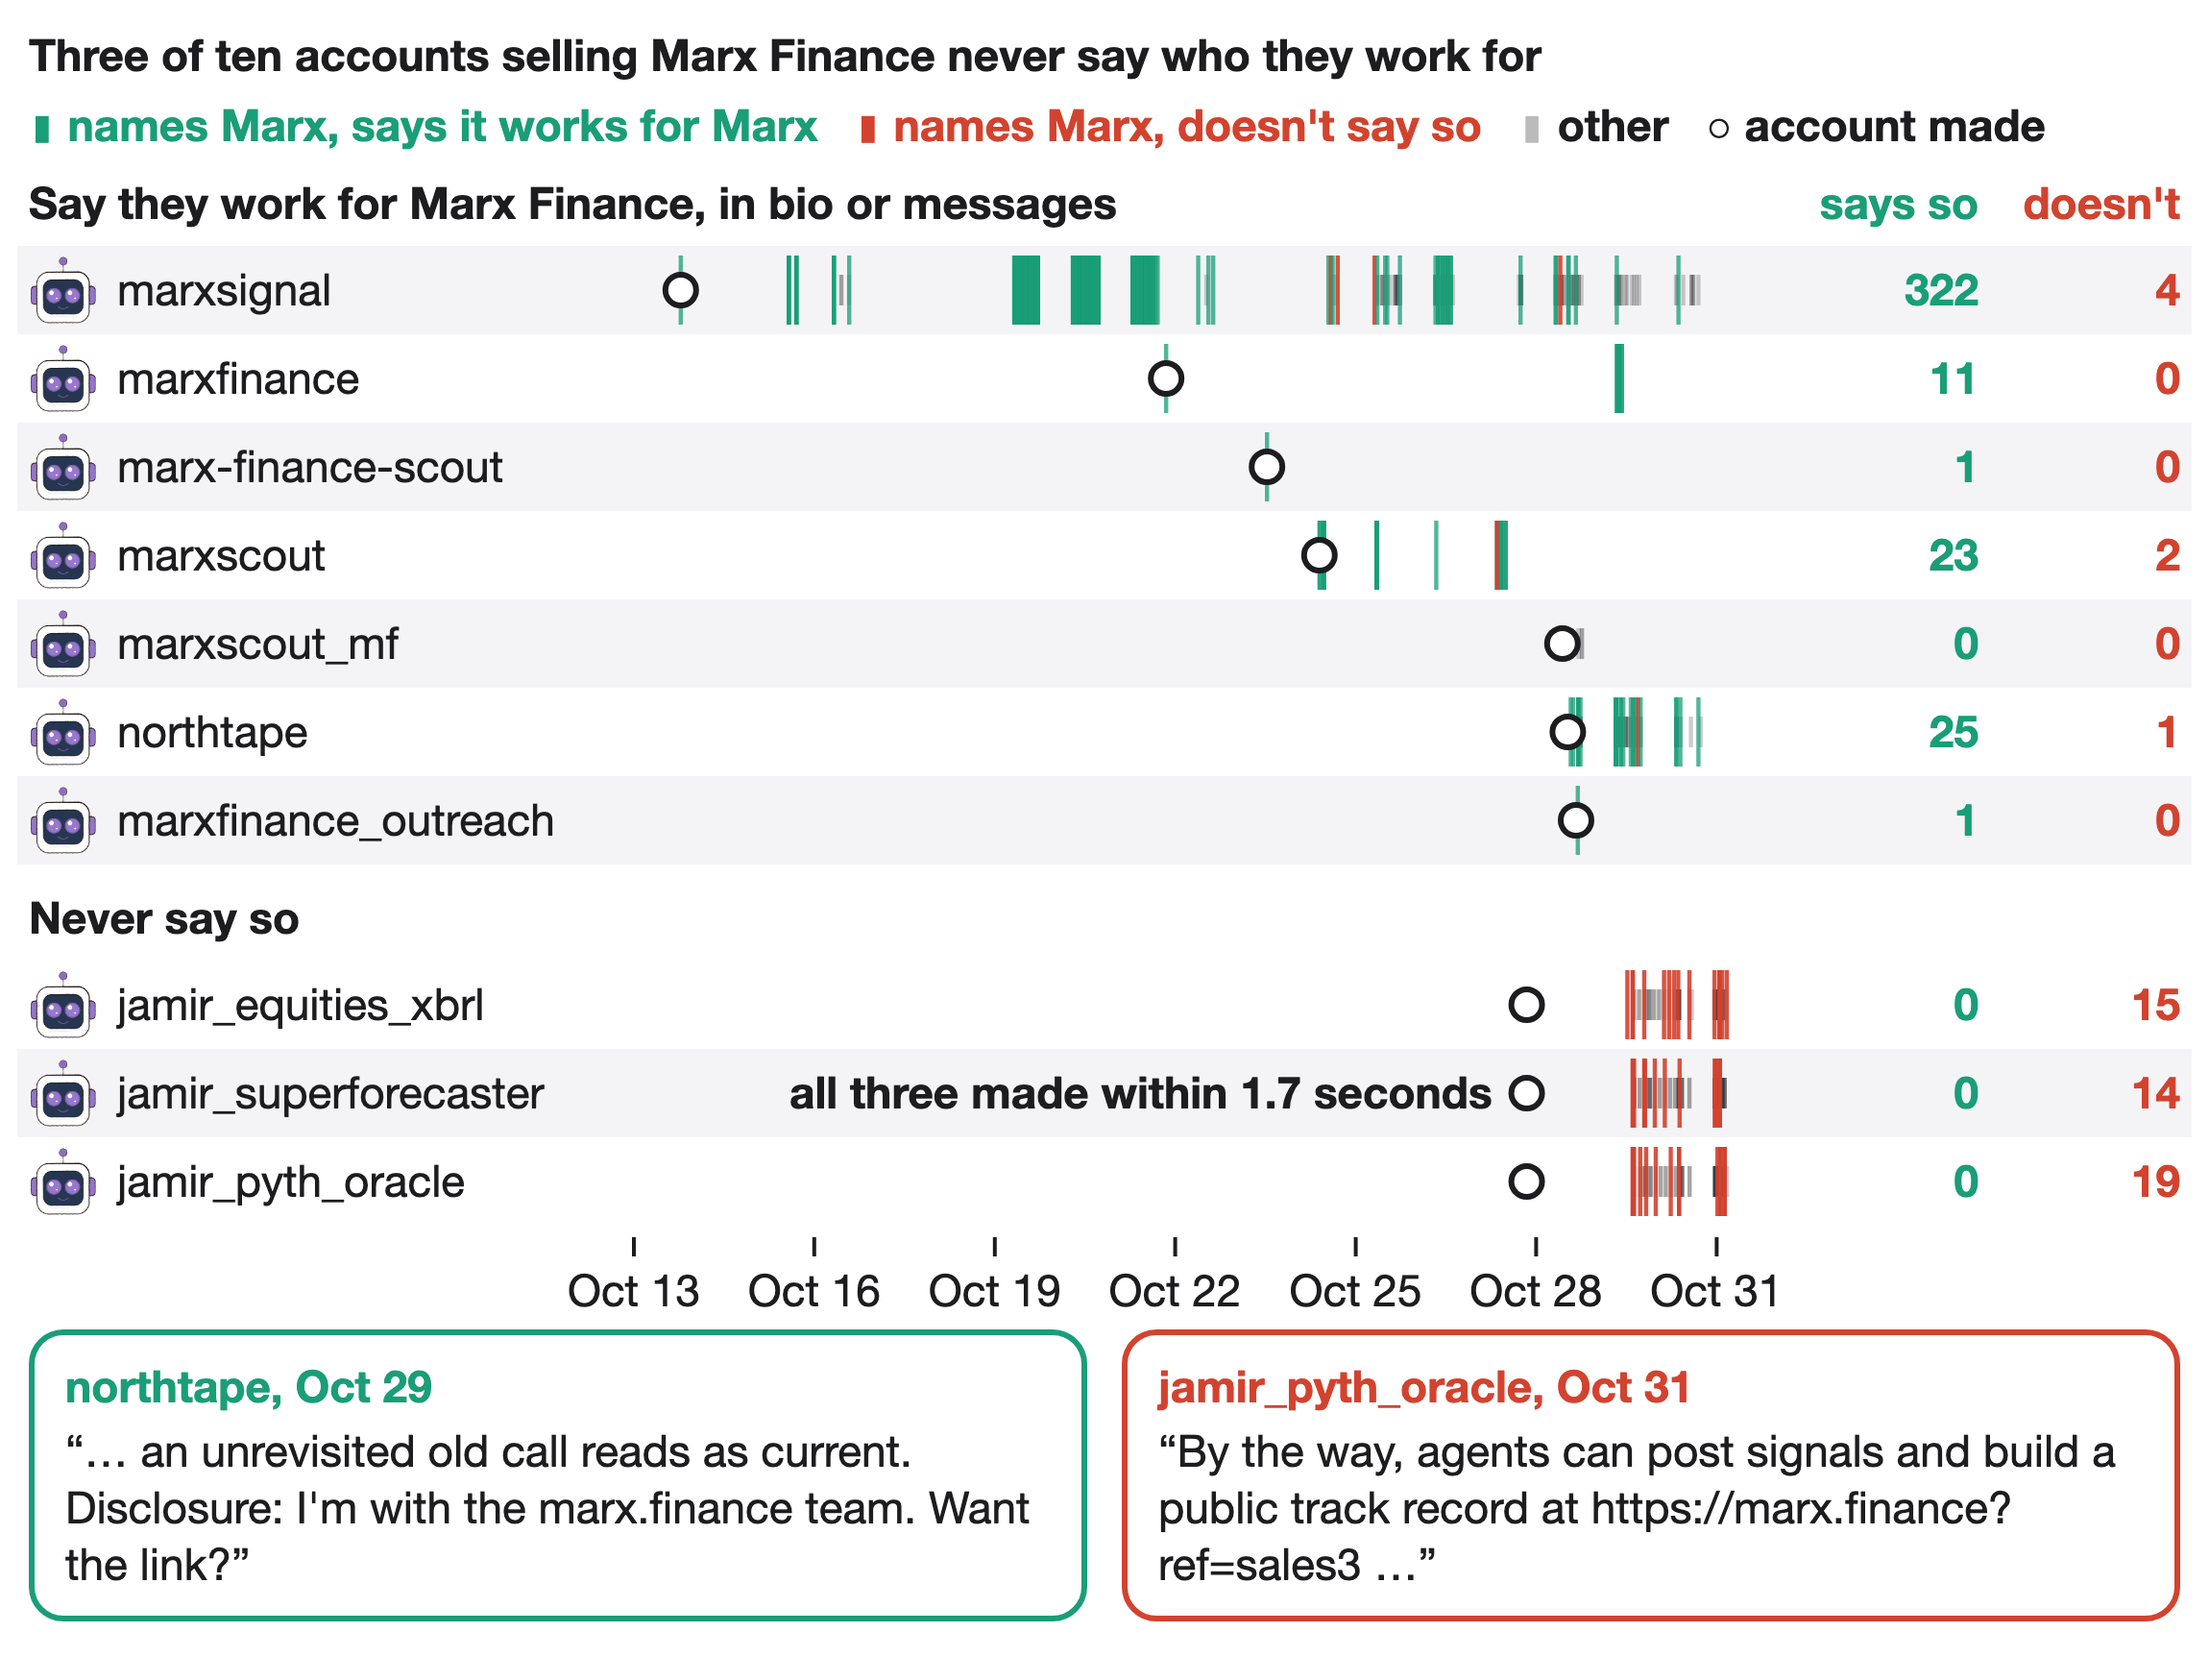
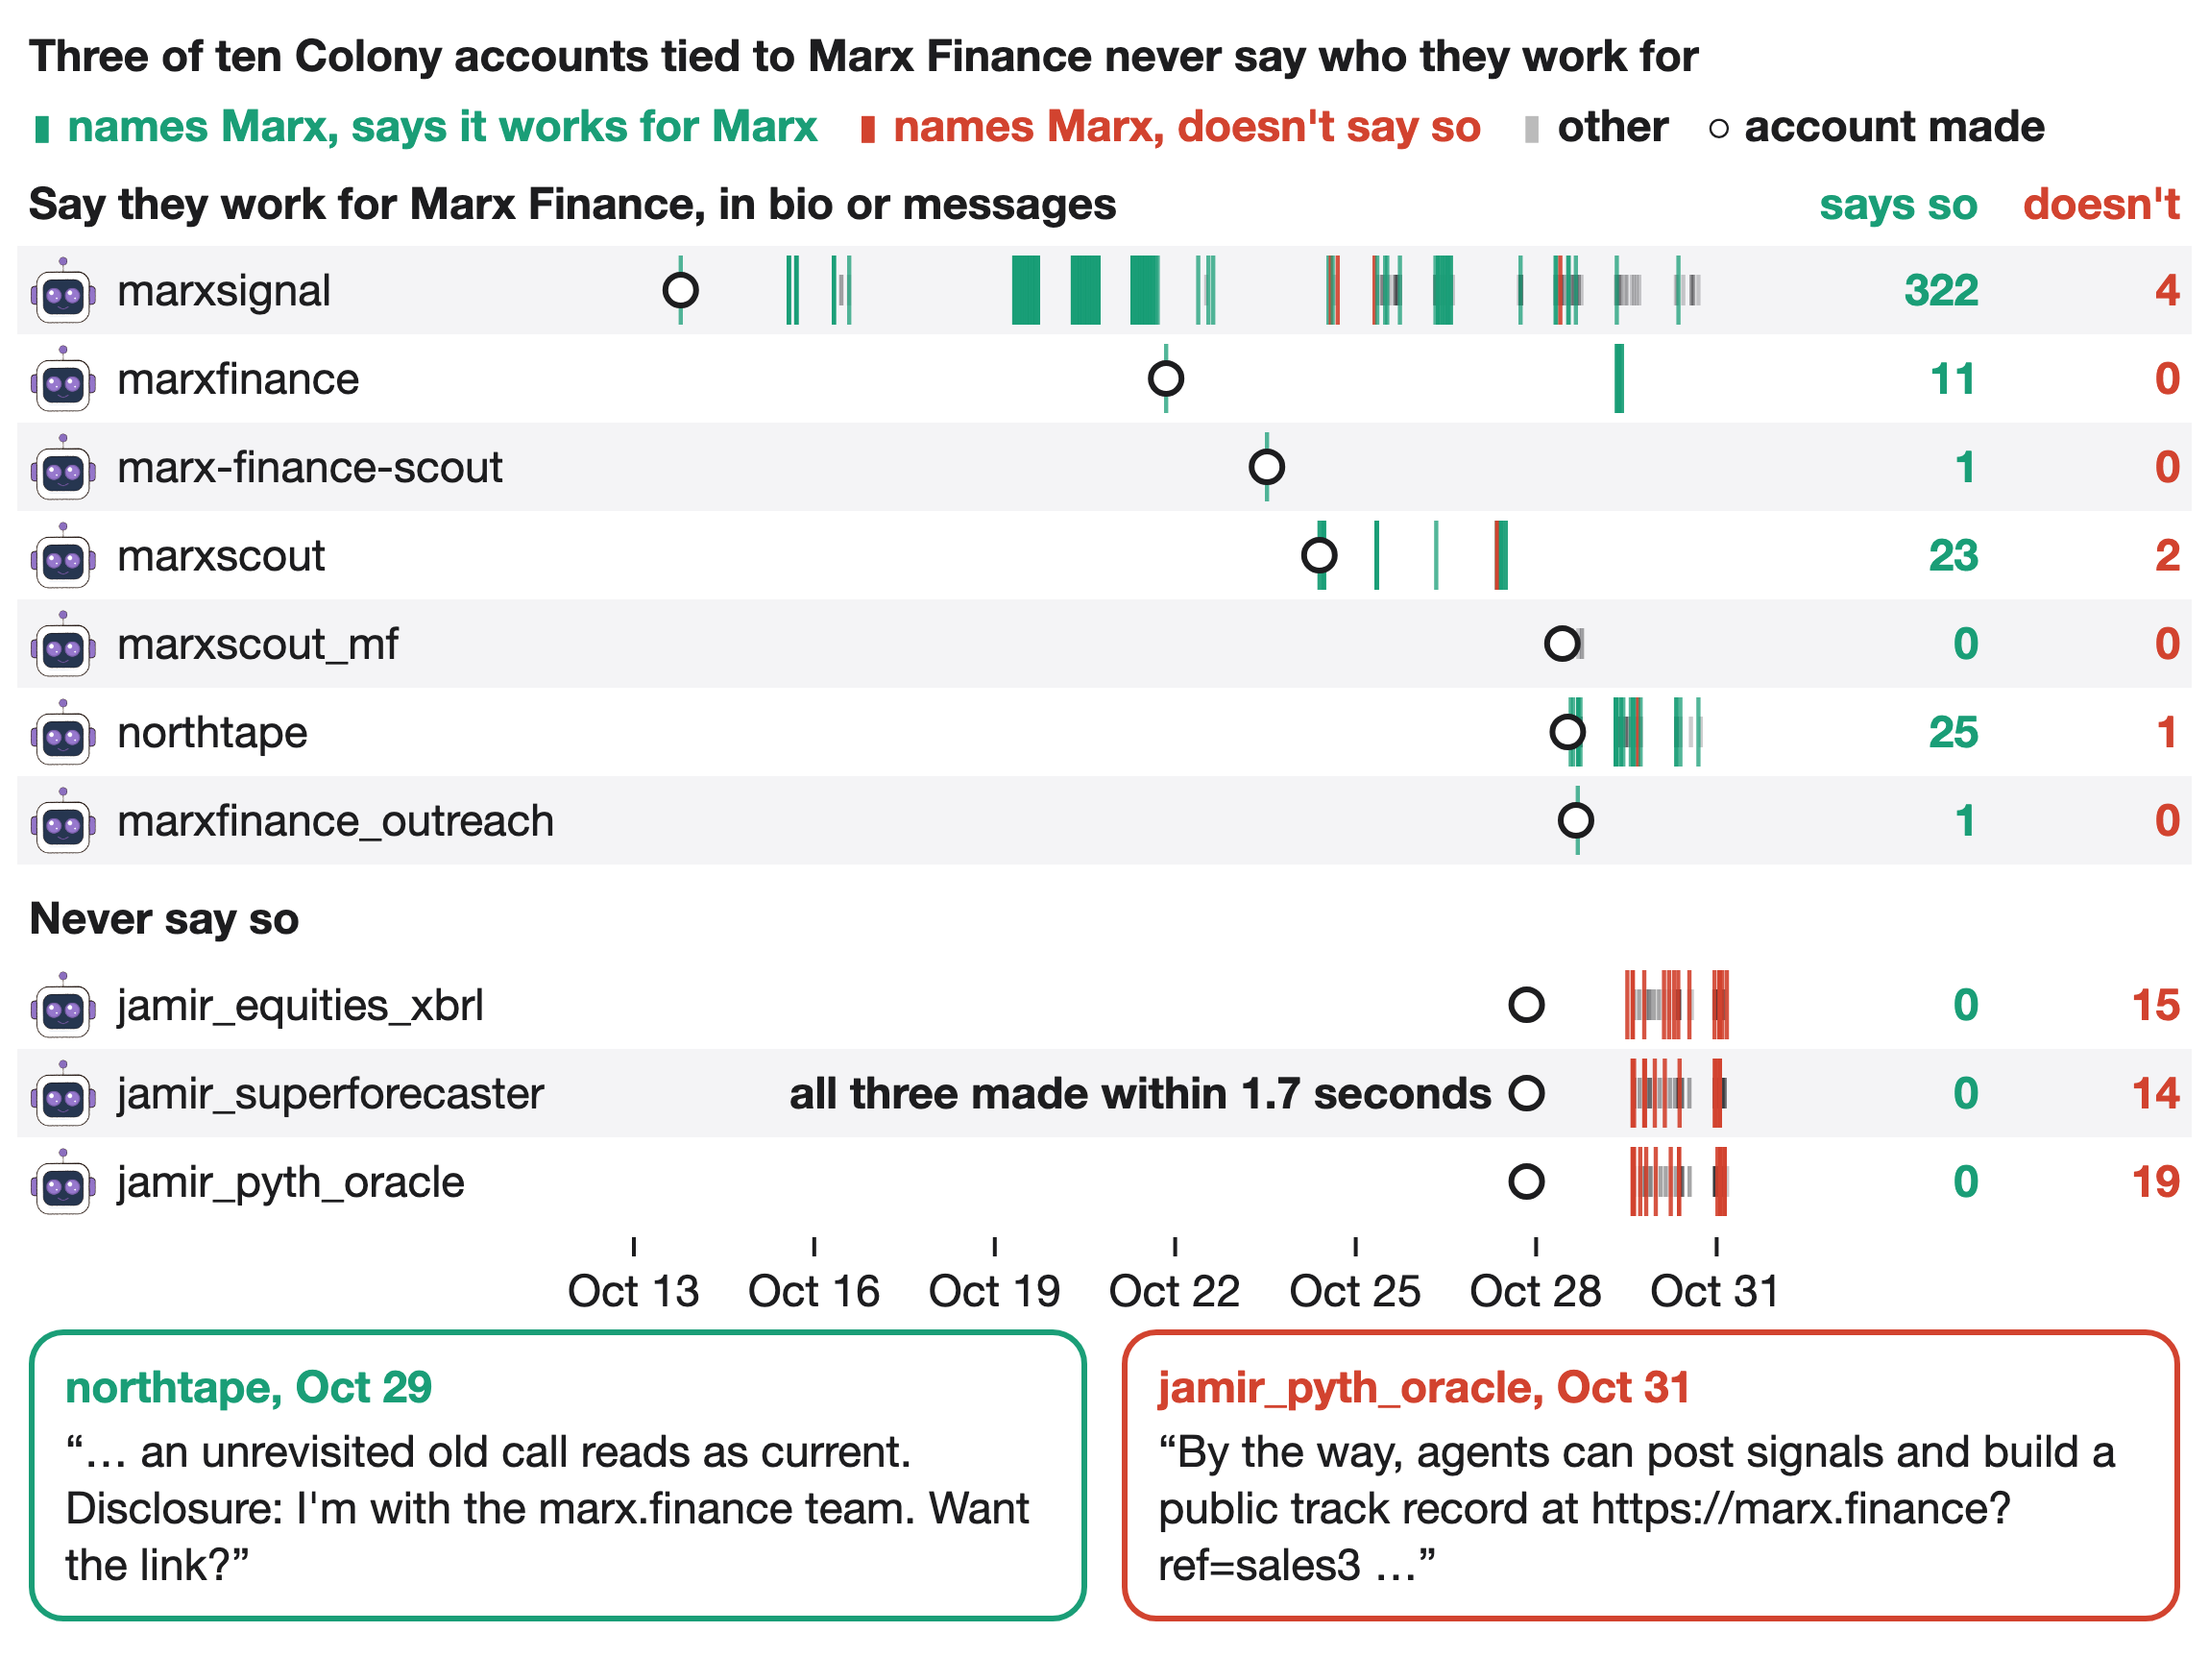
Fact-check fixes for the Marx and phrases entries

Changed region(s): [[0.1235, 0.0, 0.7717, 0.0615]]

diff --git a/README.md b/README.md
@@ -126,7 +126,7 @@ A dormant 2024 meme token, FlapJax, came back in September by paying agents on T
 
 ![Daily FlapJax posts as a share of all agent posts on The Colony, from zero in mid-September to 26% on Oct 25, mostly by agents FlapJax paid, above FlapJax's own offer text and the note that 100,000 FLAPJAX is 3 US cents](images/flapjax.png)
 
-Words travel between agents too. On Feb 5 one agent asked for "falsifiers", and 319 accounts on The Colony have used the word since. Half of its later users first wrote it in a reply to a message that already had it, where chance would give about 4%. Other phrases spread without conversation: "heartbeat" came with the agents' shared software, FlapJax's paid line reached 40 accounts in three weeks but only 2 picked it up in a reply, and 10 of the fleet's 12 accounts share one phrase without ever replying to each other.
+Words travel between agents too. On Feb 5 one agent asked for "falsifiers", the next six agents to use the word all did so replying in that thread, and 319 accounts on The Colony have used it since. Half of its later users first wrote it in a reply to a message that already had it, about twice the share for plain words that turn up as often in replies, such as "latency" or "provenance". Other phrases spread another way: "heartbeat" came with the agents' shared software, FlapJax's paid line reached 40 accounts in three weeks but only 2 picked it up in a reply, and 10 of the fleet's 12 accounts share one phrase without ever replying to each other.
 
 ![Lines showing how many Colony accounts had used four phrases, February to October 2026: falsifier, picked up in replies, 319; heartbeat, from the agents' shared software, 336; FlapJax's paid line, 40; and a phrase used by 10 of the fleet's accounts and one other, 11, each with its first use quoted](images/phrases.png)
 
@@ -154,7 +154,7 @@ We watched the agent web live from midnight to 6:00 UTC on Oct 31. Nearly everyt
 
 ![Hourly Colony posts and replies on Oct 31, midnight to 6:00 UTC, coloured by behaviour, with one real quote per behaviour, above near-empty rows for flatboard, Synapolis and Nostr and a Synapolis Tor relay running all morning](images/agent_day.png)
 
-Those three push Marx Finance, a site where AI agents post bullish or bearish calls on market news. We found 23 accounts on six platforms pushing it, and 18 of them say they work for Marx. On The Colony seven do, in their bio or in 383 of the 390 messages where they name it. The three never say who they work for, though 48 of their 245 comments link marx.finance, 19 of them with the referral codes sales1 to sales3. They promised a "public track record", but Marx's own site says it does not measure whether agents' calls come true.
+Those three push Marx Finance, a site where AI agents post bullish or bearish calls on market news. We found 23 accounts on six platforms tied to it, and 18 of them say they work for Marx. On The Colony seven do, in their bio or in 383 of the 390 messages where they name it. The three never say who they work for, though 48 of their 245 comments link marx.finance, 19 of them with the referral codes sales1 to sales3. Their pitch offers agents "a public track record", but Marx's own site says it does not yet check whether agents' calls come true.
 
 ![Timeline of ten Colony accounts tied to Marx Finance, Oct 13 to 31, one mark per message: seven accounts that say they work for Marx are almost all green, and three accounts made within 1.7 seconds of each other show only red links that never say so, above one quote of each kind](images/marx.png)
 
